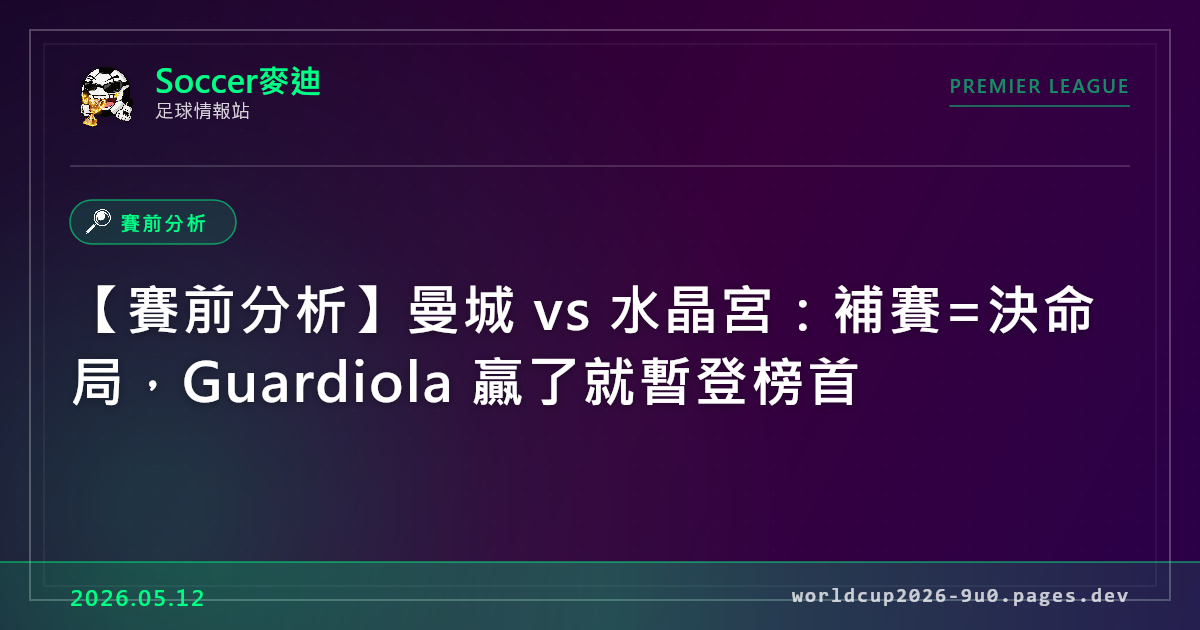
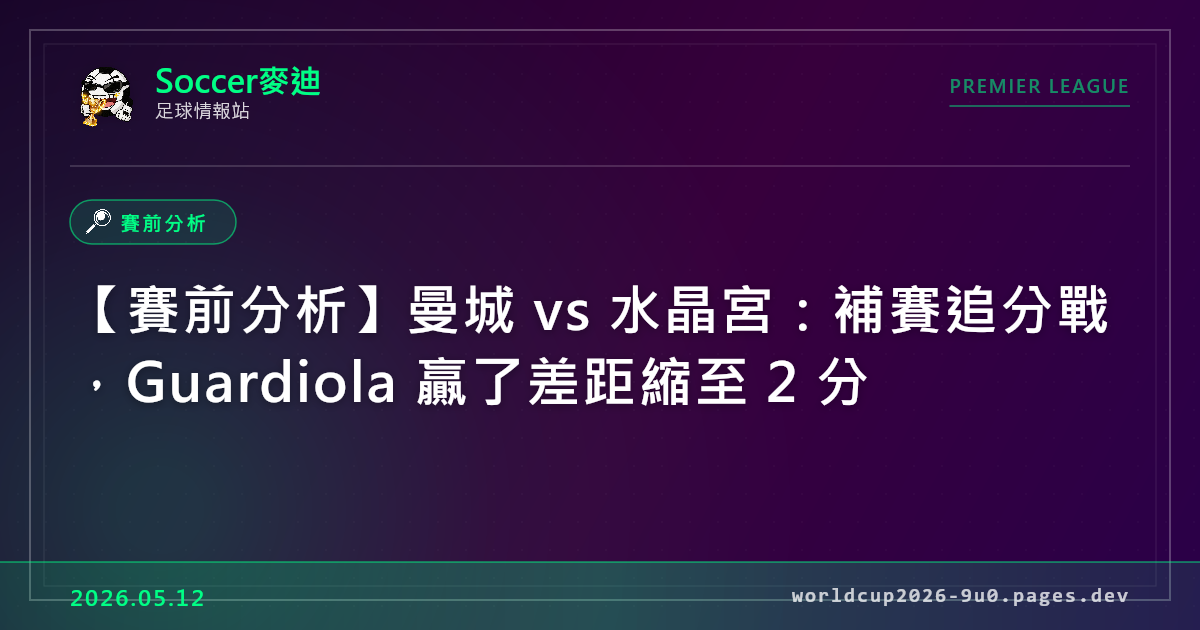
fix(epl-057): 曼城積分 77→74、決賽對手佛倫提那→拉佑瓦萊卡諾
稽核發現曼城實際 74 分（非 77），贏球追至 77 分仍落後兵工廠 2 分
水晶宮歐會盃決賽對手為 Rayo Vallecano 非 Fiorentina

Changed region(s): [[0.0617, 0.5429, 0.74, 0.6635], [0.7708, 0.4524, 0.925, 0.5429]]

diff --git a/js/epl-data-articles.js b/js/epl-data-articles.js
@@ -3032,10 +3032,10 @@ Michael Carrick 的球隊從第一分鐘就暴露了問題。缺少了停賽的 
   },
   {
     id: 'epl-057',
-    title: '【賽前分析】曼城 vs 水晶宮：補賽=決命局，Guardiola 贏了就暫登榜首',
+    title: '【賽前分析】曼城 vs 水晶宮：補賽追分戰，Guardiola 贏了差距縮至 2 分',
     date: '2026-05-12',
     category: '賽前深度分析',
-    summary: '英超補賽——曼城主場迎戰水晶宮，這是 Guardiola 手中的「遊戲外掛」：贏球就以 80 分暫時超越兵工廠（79 分）登上榜首，輸球則冠軍夢幾乎破滅。Rodri 傷癒歸隊成關鍵，水晶宮帶著歐會盃決賽的信心來訪。',
+    summary: '英超補賽——曼城（74 分）主場迎戰水晶宮，贏球可追至 77 分、與兵工廠（79 分）只差 2 分且多一場在手。輸球則冠軍夢幾乎破滅。Rodri 傷癒歸隊成關鍵，水晶宮帶著歐會盃決賽的信心來訪。',
     content: `<h2>曼城 vs 水晶宮｜英超補賽・05/14（三）03:00 台灣時間・伊蒂哈德球場</h2>
 
 <p>這場補賽的意義超越三分——它決定英超冠軍歸屬的走向。</p>
@@ -3047,10 +3047,10 @@ Michael Carrick 的球隊從第一分鐘就暴露了問題。缺少了停賽的 
 <table style="width:100%;border-collapse:collapse;margin:12px 0">
 <tr style="background:#1a1a2e;color:#fff"><th style="padding:8px">排名</th><th style="padding:8px">球隊</th><th style="padding:8px">賽</th><th style="padding:8px">積分</th><th style="padding:8px">剩餘場次</th></tr>
 <tr style="background:#f8f8f8"><td style="padding:8px">1</td><td style="padding:8px">兵工廠</td><td style="padding:8px">36</td><td style="padding:8px">79</td><td style="padding:8px">2（伯恩利主、最後一輪）</td></tr>
-<tr><td style="padding:8px">2</td><td style="padding:8px">曼城</td><td style="padding:8px">36</td><td style="padding:8px">77</td><td style="padding:8px">3（水晶宮主、伯恩茅斯客、最後一輪）</td></tr>
+<tr><td style="padding:8px">2</td><td style="padding:8px">曼城</td><td style="padding:8px">36</td><td style="padding:8px">74</td><td style="padding:8px">3（水晶宮主、伯恩茅斯客、最後一輪）</td></tr>
 </table>
 
-<p><b>曼城贏球 → 80 分暫登榜首</b>，給兵工廠施加巨大心理壓力。<b>曼城平局或輸球</b> → 兵工廠只要在最後 2 輪拿到 1-2 分就封王。這是 Guardiola 本季最重要的 90 分鐘。</p>
+<p><b>曼城贏球 → 77 分、與兵工廠只差 2 分且多一場在手</b>，冠軍懸念延續到最後一輪。<b>曼城平局或輸球</b> → 兵工廠只要在最後 2 輪拿到 1-2 分就封王。這是 Guardiola 本季最重要的 90 分鐘。</p>
 
 <h3>曼城：伊蒂哈德堡壘 + Rodri 回歸？</h3>
 
@@ -3062,7 +3062,7 @@ Michael Carrick 的球隊從第一分鐘就暴露了問題。缺少了停賽的 
 
 <h3>水晶宮：歐會盃決賽隊的雙重挑戰</h3>
 
-<p>Glasner 的水晶宮正經歷夢幻又疲憊的賽季——他們殺入了<b>歐洲協會聯賽決賽</b>（5/27 對佛倫提那），但英超近 4 場未勝，聯賽排名第 15 已安全但無法再進一步。</p>
+<p>Glasner 的水晶宮正經歷夢幻又疲憊的賽季——他們殺入了<b>歐洲協會聯賽決賽</b>（5/27 對拉佑瓦萊卡諾），但英超近 4 場未勝，聯賽排名第 15 已安全但無法再進一步。</p>
 
 <p>上輪主場 2-2 被愛華頓追平暴露了水晶宮的問題：領先時無法守住比分、下半場體能下降。<b>Nketiah 賽季報銷、Doucouré 膝傷缺陣</b>是長期傷兵，但攻擊三叉戟 <b>Mateta-Sarr-Pino</b> 仍是英超中下游最具威脅的鋒線之一。</p>
 
@@ -3076,7 +3076,7 @@ Michael Carrick 的球隊從第一分鐘就暴露了問題。缺少了停賽的 
 
 <h3>麥迪預測</h3>
 
-<p><b>曼城 3-1 水晶宮</b>。伊蒂哈德的氛圍加上冠軍壓力的驅動力，曼城不會給水晶宮任何喘息空間。Haaland 和 Doku 有望建功。但水晶宮不會空手而歸——Mateta 或 Sarr 有機會在反擊中找到一球。Guardiola 暫登榜首，把壓力丟回給 Arteta。</p>`,
+<p><b>曼城 3-1 水晶宮</b>。伊蒂哈德的氛圍加上冠軍壓力的驅動力，曼城不會給水晶宮任何喘息空間。Haaland 和 Doku 有望建功。但水晶宮不會空手而歸——Mateta 或 Sarr 有機會在反擊中找到一球。Guardiola 追至只差 2 分，把壓力丟回給 Arteta。</p>`,
     tags: ['賽前分析', '曼城', '水晶宮', 'Haaland', 'Guardiola', 'Rodri', 'Mateta', '爭冠', '補賽']
   },
   {